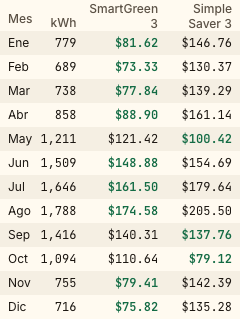
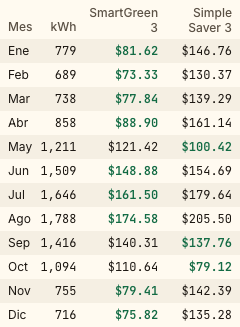
Codex 13: no findings. Compare table headers line up (Month was 4px high). Docs: 209 tests. R3 compare at 1920 screens, R6 home CLS 0 at 320/1920, R7/R8 already covered — logged

diff --git a/src/app/compare/page.tsx b/src/app/compare/page.tsx
@@ -105,7 +105,7 @@ export default async function Compare({ searchParams }: PageProps<"/compare">) {
         </div>
         <div className="mt-4 overflow-x-auto" tabIndex={0} role="region" aria-label={t.tableName}>
           <table className="num w-full min-w-[15rem] text-sm max-[359px]:text-xs">
-            <thead className="font-sans text-ink-2"><tr><th className="py-1 pl-2 text-left align-bottom font-medium">{t.month}</th><th className="pl-2 text-right align-bottom font-medium">kWh</th><th className="pl-2 text-right align-bottom font-medium leading-tight">{a.meta.planName}</th><th className="pl-2 pr-2 text-right align-bottom font-medium leading-tight">{b.meta.planName}</th></tr></thead>
+            <thead className="font-sans text-ink-2"><tr><th className="py-1 pl-2 text-left align-bottom font-medium">{t.month}</th><th className="py-1 pl-2 text-right align-bottom font-medium">kWh</th><th className="py-1 pl-2 text-right align-bottom font-medium leading-tight">{a.meta.planName}</th><th className="py-1 pl-2 pr-2 text-right align-bottom font-medium leading-tight">{b.meta.planName}</th></tr></thead>
             <tbody>
               {c.rows.map((r, i) => (
                 <tr key={i} className={i % 2 ? "" : "bg-paper"}>

diff --git a/docs/DEVPOST.md b/docs/DEVPOST.md
@@ -69,7 +69,7 @@ for a number that was never real.
 - **Seasons:** ERCOT's 15-minute residential load profiles for the Coast weather zone (2023–2025), mixed by how many
   CenterPoint homes are in each profile type. That gives the monthly shape; your average sets the size.
 - **Deciding:** the bill math, yearly cost, ranking, price cliffs, filters, switching math and every "why" sentence
-  are plain code with 206 tests ⟲, including a test that every verified plan still rebuilds its own label.
+  are plain code with 209 tests ⟲, including a test that every verified plan still rebuilds its own label.
 - **Staying fresh:** `npm run refresh` downloads the state's list for free and shows what changed; `--apply`
   re-downloads every label and only sends the ones whose text changed to the AI. The Dallas read cost $1.15 for 172
   labels, about 0.67¢ each.
@@ -136,7 +136,7 @@ Retake with `node scripts/gallery.mjs` (or `node scripts/gallery.mjs 7,8` for ju
 ## Checked against the code (Claude Code, Nov 16)
 172 plans / 171 verified / 154 ranked / #74 / $378 / 6 months / $125 / 1,000 kWh / 6.2¢: scripts/headline.ts.
 158 direct / 14 Anakin / median 3,707 ms: data/plans.json. 7 trap kinds: src/lib/trapGuide.ts. 2.6× Aug/Feb: docs/SOURCES.md.
-206 tests: `npm test`. axe 0 on 23 pages: scripts/axe.mjs. Lighthouse a11y 100 on /, /wall, /plan (D2) and /remind, /how,
+209 tests: `npm test`. axe 0 on 23 pages: scripts/axe.mjs. Lighthouse a11y 100 on /, /wall, /plan (D2) and /remind, /how,
 Dallas wall, Dallas traps (H7): PROGRESS.md.
 Dallas (added later Nov 16): 172 plans / 154 verified / 137 ranked / #91 / $530: scripts/headline.ts; $1.149 read cost:
 PROGRESS.md (F2). Bill sentence "1,100 kWh × 6.5611¢": src/lib/bill/explain.ts on plan 33633. Questions "6 months, $750":

diff --git a/docs/DECK.md b/docs/DECK.md
@@ -59,7 +59,7 @@ One line each: Read every plan · Your real year · Proof for every number · Sw
 **8 · Why you can trust it: AI reads, code decides**
 Texas requires each label to print its average price at 500, 1,000 and 2,000 kWh (16 TAC §25.475 — **[CHECK]** exact
 wording before the slide). Claude Haiku reads the label; plain code rebuilds those three prices; all three must match to
-0.1¢ or the plan isn't ranked. Median read 3.7 s ⟲. 206 ⟲ automated tests.
+0.1¢ or the plan isn't ranked. Median read 3.7 s ⟲. 209 ⟲ automated tests.
 
 **9 · Business model**
 - Free for families, always. No account needed.
@@ -84,7 +84,7 @@ Fill the [CHECK] cells only after opening each site and trying it; screenshot wh
 - Houston: 172 ⟲ labels read, 171 verified, 154 ranked. Dallas–Fort Worth: 172 ⟲ read, 154 verified, 137 ranked
   (same "6.2¢" plan ranks #91 ⟲ there, $530 ⟲ more a year). All public and re-checkable live.
 - Reading a whole area costs about $1.15 in AI (0.67¢ a label); unchanged labels cost $0 to re-check.
-- English + Spanish on every page (same math, only the words change); contract-end calendar reminders; 206 ⟲ automated tests.
+- English + Spanish on every page (same math, only the words change); contract-end calendar reminders; 209 ⟲ automated tests.
 - Accessibility: 0 axe issues on 23 pages (English + Spanish); Lighthouse accessibility 100 on every page tested.
 - Built and shipped solo in one week.
 (No users yet — say so honestly if asked.)

diff --git a/docs/JUDGE-QA.md b/docs/JUDGE-QA.md
@@ -13,7 +13,7 @@ shown as not verified and never ranked. Houston: 171 of 172 labels verified ⟲.
 
 **2. Then what does the AI actually decide?**
 Nothing. It copies numbers off a messy PDF. The bill, the yearly cost, the ranking, the "why" sentence and the questions on each
-plan page are all plain code with tests (206 ⟲ tests). Same inputs, same answer, every time.
+plan page are all plain code with tests (209 ⟲ tests). Same inputs, same answer, every time.
 
 **3. Why Claude Haiku and not a bigger model?**
 The job is reading, not reasoning, and the code check catches mistakes either way. Haiku is fast and cheap enough to read
@@ -88,7 +88,7 @@ Many plans roll onto a month-to-month rate if you don't pick a new one. The remi
 reminder 30 days before your end date. Nothing is saved on Wattch: no account, no email.
 
 **18. How do you catch your own mistakes?**
-Three ways: the three-price check on every label, 206 ⟲ automated tests (including one that rebuilds every verified label and
+Three ways: the three-price check on every label, 209 ⟲ automated tests (including one that rebuilds every verified label and
 one that checks every English sentence has a Spanish one), and a second AI reviewer (Codex) reading each batch of changes before
 it's merged. Example: a review caught that Dallas plans were saying their delivery charges came from CenterPoint instead of
 Oncor. The math was right; the wording was wrong, and it's fixed.

diff --git a/PROGRESS.md b/PROGRESS.md
@@ -143,3 +143,6 @@
 - 2026-11-16 03:06 PT · Q8 README AI tools vs code: only claude-haiku-5-5 (reader) + api.anakin.io (fetchEfl) are called; live re-check uses no AI (fetchEfl + template read). Anakin AI QuickApp never built and not claimed. README accurate, no change. $0.
 - 2026-11-16 03:06 PT · Q9 Lighthouse mobile /compare?lang=es after table + chart changes: 95/100/100/100, LCP 3.0 s, CLS 0.000 (M8 was 95). $0.
 - 2026-11-16 03:07 PT · Q3 Spanish print = 1 Letter page (Houston x2, Dallas, + English). Q4 keyboard Spanish compare: back link → both 'Leer su letra pequeña' → table region, every stop has a visible ring. Q5 Dallas Spanish share text: 'El plan #1 del sitio del estado me costaría $530 más al año… cada plan de Dallas–Fort Worth' + area kept in the link. No changes. $0.
+- 2026-11-16 03:08 PT · R7 + R8: /compare?lang=es already in meta-check's Spanish list and es-walk stop 4-compare. No change. $0.
+- 2026-11-16 03:08 PT · R3 compare at 1920: readable for projector/deck (smallest text 13.5px); screens video-1920/compare-top.png + compare-months.png. Spotted: 'Month' header 4px higher than the others (only it has py-1) → fix after Codex 13. $0.
+- 2026-11-16 03:10 PT · Q10 Codex review 13 (base 2873706): no findings. Compare table headers aligned (py-1 on all). R1 docs test counts 206→209 (DEVPOST, DECK, JUDGE-QA); axe still 23 pages. R6 /es, /, /es?area=dallas at 320 + 1920: CLS 0.000. $0.

diff --git a/BACKLOG.md b/BACKLOG.md
@@ -164,4 +164,16 @@
 - [x] Q7 tests: compare table — a test that both plans' monthly totals add up to the yearly totals shown
 - [x] Q8 README: AI tools list still complete (Claude Code, Codex, Claude Haiku, Anakin) — check vs code
 - [x] Q9 Lighthouse /compare?lang=es at mobile after the table change
-- [ ] Q10 Codex review 13 after Q batch
+- [x] Q10 Codex review 13 after Q batch
+
+## R batch (added 03:07, night 2)
+- [x] R1 Docs test counts 206→209 (DEVPOST, DECK, JUDGE-QA) + re-count axe pages
+- [ ] R2 Compare table region: drop tabIndex when the table no longer scrolls? (axe/keyboard rules — decide + log)
+- [x] R3 Compare at 1920 (projector): chart + table readable, screenshot for the deck
+- [ ] R4 Spanish /compare share/print: does Imprimir exist there? if not, log; print 1 page check
+- [ ] R5 Wall Dallas Spanish at 1920: reveal + top-8 screenshot for the deck (Dallas beat 10b)
+- [x] R6 /es home at 320 + 1920 after the static-header change: no layout shift from the switch (CLS)
+- [x] R7 meta-check: /compare?lang=es title/description Spanish (add to spanish list if missing)
+- [x] R8 scripts/es-walk.mjs: add /compare stop if missing
+- [ ] R9 STATUS.md: add tonight's fixes list (Codex 11, sitemap, compare phone table/chart)
+- [ ] R10 Codex review 14 after R batch
